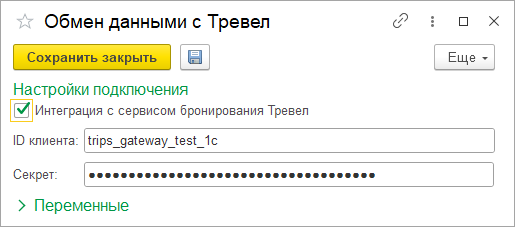
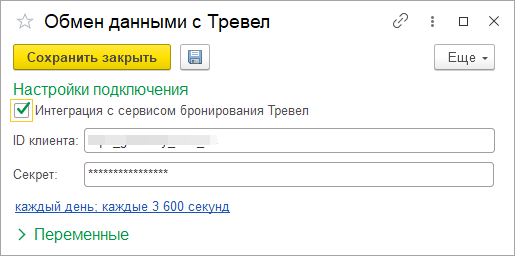
В список поддерживаемых конфигураций добавлена ЗУП. Внесены правки с раздел с расписание, добавлены скриншоты

diff --git a/docs/usage.rst b/docs/usage.rst
@@ -77,13 +77,22 @@
 Выгрузка сотрудников по расписанию
 ----------------------------------
 
-С целью автоматизации процесса отправки сотрудников в сервис, можно настроить расписание выгрузки.
+Сразу после включения интеграции активируется фоновый обмен с расписанием по умолчанию 1 час.
 
-Для настройки следует открыть форму с параметрами подключения (см. Настройка подключения) и активировать выключатель «Расписание»
+Автоматически выгружаются сотрудники, которые были выгружены ранее вручную.
+Таким образом, для создания новых сотрудников в сервисе необходимо осуществить выгрузку нажатием на кнопку.
+Изменения по таким сотрудникам будут отправляться автоматически.
+
+В зависимости от условий эксплуатации можно задать иные параметры расписания.
+
+Для настройки следует открыть форму с параметрами подключения (см. Настройка подключения) и кликнуть по соответствующей ссылке.
+
+.. figure:: _static/sshts/11.png
+      :align: center
 
 В открывшемся окне задать параметры расписания.
 
-.. figure:: _static/sshts/11.png
+.. figure:: _static/sshts/12.png
       :align: center
 
       Параметры выгрузки по расписанию

diff --git a/docs/installing.rst b/docs/installing.rst
@@ -80,6 +80,6 @@
             
             **Использовать основные роли** - расширение будет доступно всем пользователям.
 
-*Шаг 5.* Повторить шаги 1-4 для второго расширения
+*Шаг 5.* Повторить шаги 1-4 для второго расширения (неактуально для ЗУП)
 
 *Шаг 6.* Для активации добавленных расширений необходимо перезапустить программу.

diff --git a/docs/about.rst b/docs/about.rst
@@ -14,6 +14,7 @@
 * Бухгалтерия предприятия, редакция 3.0
 * Бухгалтерия предприятия КОРП, редакция 3.0
 * ERP Управление предприятием 2
+* Зарплата и управление персоналом КОРП, с версии 3.1.13 (выгрузка сотрудников)
 
 Платформа 1С. Минимальные требования
 ------------------------------------
